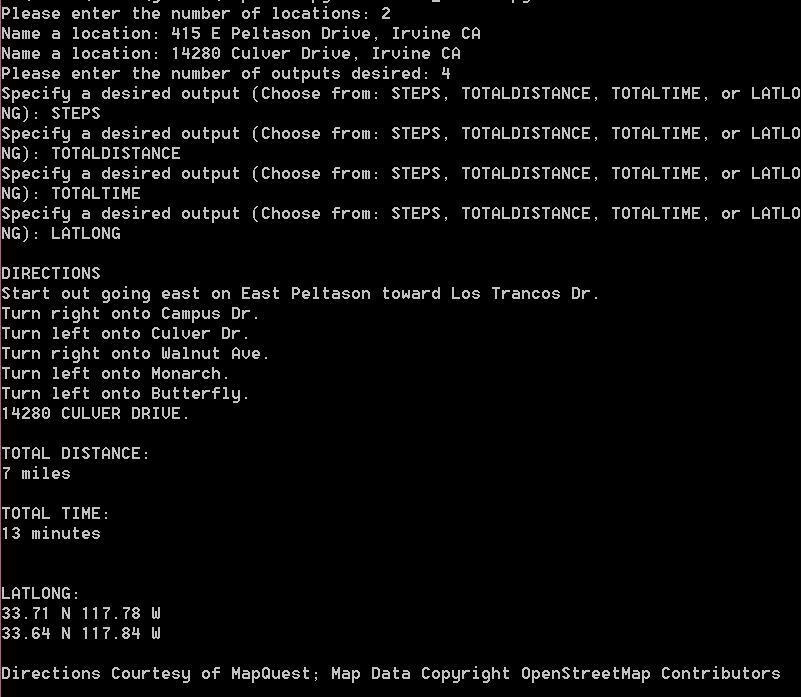
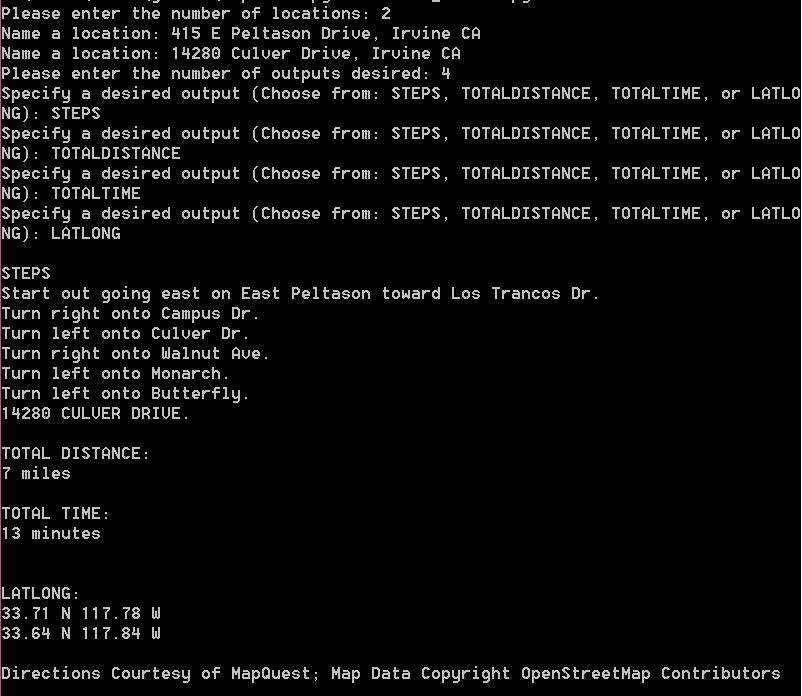
MapQuest

diff --git a/classes_module.py b/classes_module.py
@@ -9,7 +9,7 @@ class Steps:
     def generate(self, json: 'json'):
         '''Searches json and prints step by step directions for the route to the location(s)'''
         routed = []
-        print('\nDIRECTIONS')
+        print('\nSTEPS')
         for item in json:
           for element in item["route"]["legs"]:
             for subitem in element["maneuvers"]:

diff --git a/README.md b/README.md
@@ -1,1 +1,14 @@
-MapQuest
+MapQuest Directions
+
+Given specific locations, this program connects to the MapQuest Open Directions API
+by building a URL with the given locations and making an HTTP request. It retrieves
+the parsed JSON result from this request, and displays the specified output by retrieving
+the information from the JSON result. 
+
+The user is prompted for the number of locations to retrieve directions for. After
+specifying this number, the user is prompted to enter the name of each location. 
+The user then inputs how many outputs they desire, and then specifies what types of 
+outputs they desire. The user chooses from 4 options: STEPS, TOTALDISTANCE, 
+TOTALTIME, or LATLONG. After specifying which options they want to output, the program
+connects to the MapQuest Open Directions API, retrieves the JSON result,
+and searches the JSON result for the specified output information.
